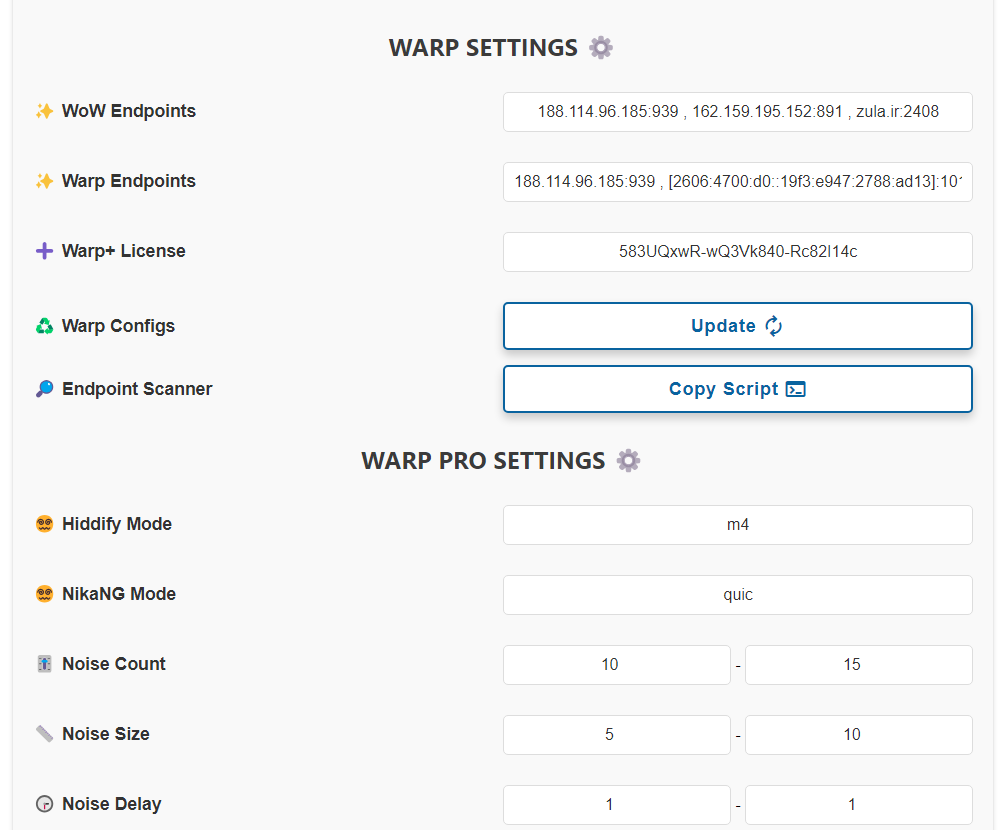
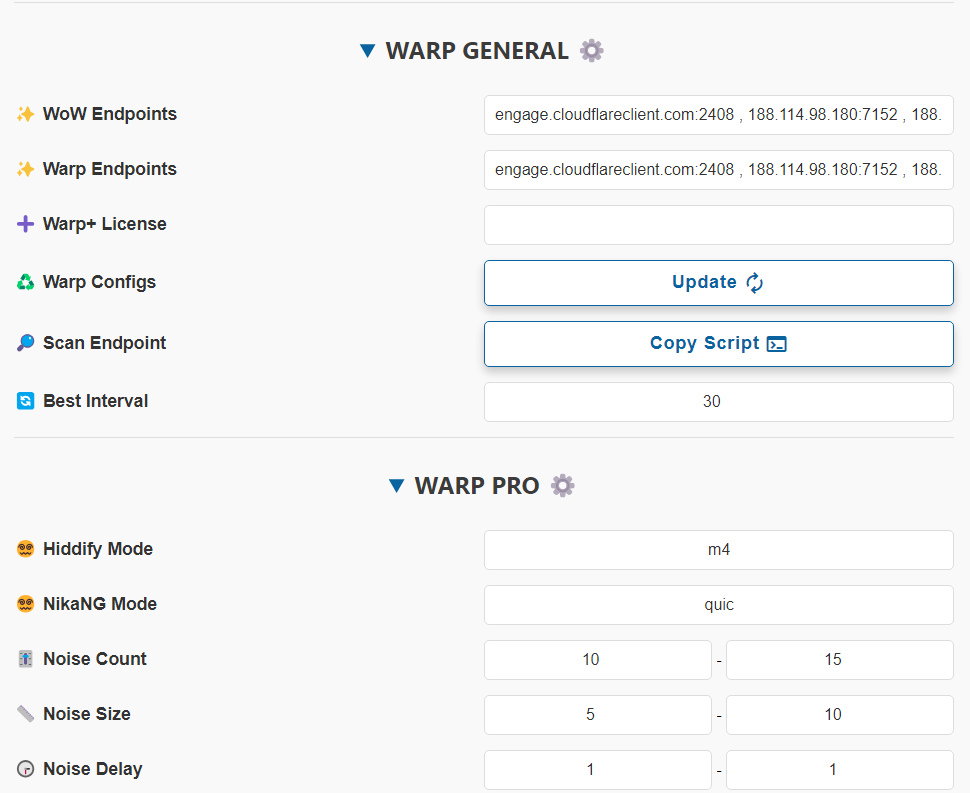
Updated docs.

diff --git a/_worker.js b/_worker.js
@@ -1207,7 +1207,7 @@ async function updateDataset (env, newSettings, resetSettings) {
 
     const chainProxy = newSettings?.get('outProxy');
     const proxySettings = {
-        remoteDNS: newSettings ? newSettings.get('remoteDNS') : currentSettings ? currentSettings.remoteDNS : 'https://dns.google/dns-query',
+        remoteDNS: newSettings ? newSettings.get('remoteDNS') : currentSettings ? currentSettings.remoteDNS : 'https://8.8.8.8/dns-query',
         localDNS: newSettings ? newSettings.get('localDNS') : currentSettings ? currentSettings.localDNS : '8.8.8.8',
         lengthMin: newSettings ? newSettings.get('fragmentLengthMin') : currentSettings ? currentSettings.lengthMin : '100',
         lengthMax: newSettings ? newSettings.get('fragmentLengthMax') : currentSettings ? currentSettings.lengthMax : '200',

diff --git a/docs/configuration_fa.md b/docs/configuration_fa.md
@@ -29,7 +29,7 @@
 - **مسیر کانفیگ Websocket Path:** هر کانفیگ یه مسیر متفاوت داره.
 - **آدرس کانفیگ:** از این 6 تا کانفیگ آدرس یکیشون www.speedtest.net هست که روی اکثر اپراتورا تمیزه، دومیش دامنهی خود ورکرتونه، و 3 تا 6 هم IP های دامنهی خودتون که اینام معمولا تمیزن. دوتا IPv4 و دوتا IPv6.
 
-چطور میشه تعدادشون رو اضافه کرد؟ توضیحات و تنظیمات بیشتر رو [اضافه کردن IP تمیز](#4-1-3--تنظیمات-ip-تمیز) و [اضافه کردن پورت](#4-1-7--انتخاب-port) , [انتخاب پروتکلها](#4-1-6--انتخاب-protocol) توضیح دادیم. 
+چطور میشه تعدادشون رو اضافه کرد؟ توضیحات و تنظیمات بیشتر رو [اضافه کردن IP تمیز](#4-1-4--تنظیمات-ip-تمیز) و [اضافه کردن پورت](#4-1-9--انتخاب-port) , [انتخاب پروتکلها](#4-1-8--انتخاب-protocol) توضیح دادیم. 
 > [!CAUTION]
 >برای استفاده از این کانفیگ ها Mux رو از تنظیمات هر اپلیکیشنی که استفاده میکنید خاموش کنید.
 
@@ -124,16 +124,16 @@
 ### 4-1- تنظیمات VLESS/TROJAN
 
 <p align="center">
-  <img src="assets/images/Fragment-Settings.jpg">
+  <img src="assets/images/VLESS_Trojan_settings.jpg">
 </p>
 
 این قسمت برای تنظیمات کانفیگای Fragment و سابهای Clash و Singbox هست و تاثیری روی کانفیگهای بخش نرمال v2ray و همچنین سابهای وارپ نداره.
 
 #### 4-1-1- سرورهای DNS
 
-بطور پیشفرض من Adguard DNS رو گذاشتم برای Remote DNS (برای حذف تبلیغات و spam و ...) و Google DNS رو گذاشتم برای Local DNS. یعنی تو کانفیگ پیشفرض اینه:
+بطور پیشفرض من Google DOH رو گذاشتم برای Remote DNS (برای حذف تبلیغات و spam و ...) و Google DNS رو گذاشتم برای Local DNS. یعنی تو کانفیگ پیشفرض اینه:
 
->`Remote DNS: https://94.140.14.14/dns-query`
+>`Remote DNS: https://8.8.8.8/dns-query`
 >
 >`Local DNS: 8.8.8.8`
 
@@ -154,6 +154,10 @@
 
 #### 4-1-2- تنظیمات Proxy IP
 
+<p align="center">
+  <img src="assets/images/Proxy_IP_settings.jpg">
+</p>
+
 برای تغییر Proxy IP از ورژن 2.3.5 به بعد میتونید از طریق خود پنل انجام بدید، به این ترتیب که اعمال میکنید و ساب رو آپدیت میکنید و تمام. اما توصیه میکنم از روش قدیمی داشبورد کلادفلر انجام بدید چون:
 
 > [!CAUTION]
@@ -169,116 +173,7 @@
 
 <br>
 
-#### 4-1-3- تنظیمات IP تمیز
-
-لینک های اشتراک نرمال (بدون فرگمنت) 6 تا کانفیگ بهتون میده. اینجا میتونید تعداد کانفیگها رو زیاد کنید.
-
-> [!TIP]
-> روی اپراتورهایی که از IPv6 پشتیبانی میکنن (مثل رایتل، ایرانسل و آسیاتک) اول IPv6 رو روی سیمکارت فعال کنید، بعد داخل تنظیمات V2RayNG گزینهی Prefer IPv6 رو فعال کنید و از بین این 6 تا کانفیگ هم از اون دو تا آخری یا اونی که آدرسش دامنه خودتون هست استفاده کنید. به طور کلی همیشه یه بار Real delay all configuration بزنید و با هر کدوم بهتر بود وصل بشید.
-
-
-
-
-اون 6 تا کانفیگ پیشفرضی که پنل میده همشون IP تمیز هستن، در ضمن اگر از کانفیگای Fragment استفاده کنید دیگه خیلی IP تمیز اهمیتی نداره، اما بعضی اپراتورا مثل مخابرات روی کانفیگای معمولی هنوز IP تمیز میخوان.
-
-خب حالا اگر خواستید علاوه بر اون 6 تا کانفیگ دیگه ای اضافه کنید که با IP تمیز خودتون باشه، مطابق عکس IP یا دامینهای تمیز خودتون رو با ویرگول وارد کنید و Apply بزنید، اسکنر آنلاین بچههای [IRCF](https://ircf.space) رو هم اضافه کردم:
-
-<p align="center">
-  <img src="assets/images/Clean_ip_domain.jpg">
-</p>
-
-الان اگر توی اپلیکیشن Update subscription بزنید میبینید که کانفیگای جدید اضافه شدن.
-
-در ضمن این کانفیگای جدید همزمان به قسمت فرگمنت هم اضافه میشن.
-
-<br>
-
-> [!CAUTION]
-> حتما بعد از اعمال ساب رو آپدیت کنید.
-<br>
-
-#### 4-1-4- تنظیمات Custom
-
-3 تا فیلد داریم به اسم Custom، در اصل مخفف Custom CDN. برای مواقعی استفاده میشه که شما میاید دامنهی Worker خودتون رو میبرید پشت یه CDN دیگه، مثلا Fastly یا Gcore یا هر CDN دیگهای. این 3 قسمت به ترتیب عبارتند از:
-
-1- بخش `Custom Addr` که در اصل حکم همون IP ها یا IP تمیزهای کلادفلر رو داره. ولی از هر CDN که اینجا استفاده میکنید باید IP های خودشو بذارید، نمیشه IP کلادفلرو بذارید برای Fastly یا Gcore. اینجام مثل IP تمیز که داشتیم میتونید دامنه، IP ورژن 4 یا 6 با ویرگول بذارید، حواستون باشه IPv6 باید بین [ ] باشه مثل:
-> speedtest.net , [2a04:4e42:200::731] , 151.101.66.219
-
-2- بخش `Custom Host` باید host که توی اون CDN تعریف کردید و اشاره میکنه به ورکر خودتون رو بذارید. مثلا توی Fastly میشه یه آدرس دامنه فیک تعریف کرد.
-
-3- بخش `Custom SNI` هم میتونید اون دامنهی فیک رو بذارید هم یه سایتی که روی همون CDN باشه. مثلا سایت speedtest.net (بدون wwww) روی CDN Fastly هست.
-
-حالا بعد از تنظیم کردن این بخش، کانفیگاش به سابهای Normal اضافه میشه، همهی سابهای Sing-box و Clash و v2ray و .... اسم این کانفیگها یه `C` داره توش که با بقیه قاطی نشه.
-
-> [!IMPORTANT]
-> در حال حاضر فقط کانفیگهای پورت 443 و 80 با این متد متصل میشن.
-
-<br>
-
-#### 4-1-5- زمان چک کردن Best Ping
-
-تو همهی سابهای Fragment یا Sing-box و Clash ما Best Ping رو داریم. بصورت پیشفرض هر 30 ثانیه میومد بهترین کانفیگ یا مقدار Fragment رو پیدا میکرد و بهش وصل میشد، اما ممکنه اگه سرعت نت خوب نباشه و شما در حال تماشای ویدئو یا بازی کردن باشید این 30 ثانیه دردسرساز بشه و تجربهی Lag داشته باشید. از اینجا میتونید زمان رو تنظیم کنید، حداقل میتونه 10 ثانیه باشه و حداکثر 90.
-<br>
-
-#### 4-1-6- انتخاب Protocol
-
-میتونید یکی یا هر دو پروتکل VLESS و Trojan رو فعال کنید.
-> [!CAUTION]
-> این دو پروتکل بر بستر کلادفلر اتصال UDP رو به خوبی پشتیبانی نمیکنن، بنابراین برای مثال تماس صوتی تلگرام کار نمیکنه. همچنین نمیتونید از DNS های UDP بعنوان remote DNS استفاده کنید، اگر در برنامهای دیدید remote DNS یه IP مثل 1.1.1.1 هست یا یه همچین چیزی udp://1.1.1.1 به مشکل بر میخورید. حتما از فرمتهای زیر استفاده کنید:
->
-> `https://IP/dns-query` مثل `https://8.8.8.8/dns-query` , `https://94.140.14.14/dns-query` ....
-> 
-> `https://doh/dns-query` مثل `https://dns.google/dns-query` , `https://cloudflare-dns.com/dns-query` ....
-> 
-> `tcp://IP` مثل `tcp://8.8.8.8` , `tcp://94.140.14.14` ....
-> 
-> `tls://IP` مثل `tls://dns.google` , `tls://cloudflare-dns.com` ....
-<br>
-
-#### 4-1-7- انتخاب Port
-
-از این بخش میتونید پورتهای مورد نیازتون رو انتخاب کنید. یه نعدادیشون بهتون کانفیگ TLS میدن که امنتره ولی وقتایی که روی TLS و Fragment اختلال ایجاد میشه این کانفیگا وصل میشن.
-> [!CAUTION]
-> دقت کنید برای استفاده از کانفیگهای non TLS باید از روش Workers دپلوی کرده باشید. در غیر این صورت Port های http در پنل نمایش داده نمیشن چون با روش Pages کار نمیکنن.
-
-> [!TIP]
-> کانفیگهای non TLS فقط به ساب نرمال اضافه میشن.
-
-<br>
-
-### 4-2- تنظیمات Fragment  
-
-#### 4-2-1- مقادیر فرگمنت
-بصورت پیشفرض:
-   
-
->`Length: 100-200`
->
->`Interval: 1-1`
->
->`Packets: tlshello`
-
-خب حالا میتونید پارامترا رو تنظیم کنید و Apply رو بزنید. اینجوری کانفیگای فرگمنت با تنظیمات شما ارائه میشن.
-
-
-> [!NOTE]
-> میتونید یکی از پارامترا رو عوض کنید یا همشو با هم. هر تغییری که بدید ذخیره میشه و دفعه بعد نیازی به تنظیم از اول نیست.
-
-> [!IMPORTANT]
-> مقادیر فرگمنت حداکثر دارن، Length بیشتر از 500 نمیتونه باشه، Interval بیشتر از 30.
-
-<br>
-
-> [!IMPORTANT]
-> مقدار 1-1 در بخش Packets فقط روی برنامههای MahsaNG و NikaNG و v2rayN-PRO کار میکنه.
-
-<br>
-
-#### 4-2-2- تنظیمات Chain Proxy
-
-<p align="center">
-  <img src="assets/images/Proxy_IP_settings.jpg">
-</p>
+#### 4-1-3- تنظیمات Chain Proxy
 
 قبلا گفتیم که میشه یه دونه Proxy IP گذاشت و IP رو برای سایتهای پشت کلادفلر ثابت کرد، اما کماکان وقتی سایتای معمولی رو باز میکنیم IP ما متعلق به ورکر هست که اینم هر چند وقت یک بار عوض میشه. برای اینکه کلا برای همهی سایتها IP رو فیکس کنیم این قسمت اضافه شده. میتونیم یه کانفیگ VLESS یا Socks یا Http رایگان که حتی فیلتر هم شده باشه (بشرطی که فقط تو ایران فیلتر شده باشه ولی کار کنه) این قسمت بذاریم و IP ما برای همیشه ثابت میشه به IP این کانفیگ.
    
@@ -333,7 +228,119 @@
 > 3- کانفیگ VLESS WS برای Chain کردن روی Sing-box مناسب نیست، باگ داره.
 <br>
 
-### 4-3- تنظیمات Routing
+#### 4-1-4- تنظیمات IP تمیز
+
+لینک های اشتراک نرمال (بدون فرگمنت) 6 تا کانفیگ بهتون میده. اینجا میتونید تعداد کانفیگها رو زیاد کنید.
+
+> [!TIP]
+> روی اپراتورهایی که از IPv6 پشتیبانی میکنن (مثل رایتل، ایرانسل و آسیاتک) اول IPv6 رو روی سیمکارت فعال کنید، بعد داخل تنظیمات V2RayNG گزینهی Prefer IPv6 رو فعال کنید و از بین این 6 تا کانفیگ هم از اون دو تا آخری یا اونی که آدرسش دامنه خودتون هست استفاده کنید. به طور کلی همیشه یه بار Real delay all configuration بزنید و با هر کدوم بهتر بود وصل بشید.
+
+
+
+
+اون 6 تا کانفیگ پیشفرضی که پنل میده همشون IP تمیز هستن، در ضمن اگر از کانفیگای Fragment استفاده کنید دیگه خیلی IP تمیز اهمیتی نداره، اما بعضی اپراتورا مثل مخابرات روی کانفیگای معمولی هنوز IP تمیز میخوان.
+
+خب حالا اگر خواستید علاوه بر اون 6 تا کانفیگ دیگه ای اضافه کنید که با IP تمیز خودتون باشه، مطابق عکس IP یا دامینهای تمیز خودتون رو با ویرگول وارد کنید و Apply بزنید، اسکنر آنلاین بچههای [IRCF](https://ircf.space) رو هم اضافه کردم:
+
+<p align="center">
+  <img src="assets/images/Clean_ip_domain.jpg">
+</p>
+
+الان اگر توی اپلیکیشن Update subscription بزنید میبینید که کانفیگای جدید اضافه شدن.
+
+در ضمن این کانفیگای جدید همزمان به قسمت فرگمنت هم اضافه میشن.
+
+<br>
+
+> [!CAUTION]
+> حتما بعد از اعمال ساب رو آپدیت کنید.
+<br>
+
+#### 4-1-5- فعال کردن IPv6
+
+پنل بطور پیشفرض کانفیگهای IPv6 هم میده، ولی اگر اپراتورتون پشتیبانی نمیکنه، برای خلوت شدن کانفیگا میتونید غیرفعالش کنید.
+
+<br>
+
+#### 4-1-6- تنظیمات Custom
+
+3 تا فیلد داریم به اسم Custom، در اصل مخفف Custom CDN. برای مواقعی استفاده میشه که شما میاید دامنهی Worker خودتون رو میبرید پشت یه CDN دیگه، مثلا Fastly یا Gcore یا هر CDN دیگهای. این 3 قسمت به ترتیب عبارتند از:
+
+1- بخش `Custom Addr` که در اصل حکم همون IP ها یا IP تمیزهای کلادفلر رو داره. ولی از هر CDN که اینجا استفاده میکنید باید IP های خودشو بذارید، نمیشه IP کلادفلرو بذارید برای Fastly یا Gcore. اینجام مثل IP تمیز که داشتیم میتونید دامنه، IP ورژن 4 یا 6 با ویرگول بذارید، حواستون باشه IPv6 باید بین [ ] باشه مثل:
+> speedtest.net , [2a04:4e42:200::731] , 151.101.66.219
+
+2- بخش `Custom Host` باید host که توی اون CDN تعریف کردید و اشاره میکنه به ورکر خودتون رو بذارید. مثلا توی Fastly میشه یه آدرس دامنه فیک تعریف کرد.
+
+3- بخش `Custom SNI` هم میتونید اون دامنهی فیک رو بذارید هم یه سایتی که روی همون CDN باشه. مثلا سایت speedtest.net (بدون wwww) روی CDN Fastly هست.
+
+حالا بعد از تنظیم کردن این بخش، کانفیگاش به سابهای Normal اضافه میشه، همهی سابهای Sing-box و Clash و v2ray و .... اسم این کانفیگها یه `C` داره توش که با بقیه قاطی نشه.
+
+> [!IMPORTANT]
+> در حال حاضر فقط کانفیگهای پورت 443 و 80 با این متد متصل میشن.
+
+<br>
+
+#### 4-1-7- زمان چک کردن Best Ping
+
+تو همهی سابهای Fragment یا Sing-box و Clash ما Best Ping رو داریم. بصورت پیشفرض هر 30 ثانیه میومد بهترین کانفیگ یا مقدار Fragment رو پیدا میکرد و بهش وصل میشد، اما ممکنه اگه سرعت نت خوب نباشه و شما در حال تماشای ویدئو یا بازی کردن باشید این 30 ثانیه دردسرساز بشه و تجربهی Lag داشته باشید. از اینجا میتونید زمان رو تنظیم کنید، حداقل میتونه 10 ثانیه باشه و حداکثر 90.
+<br>
+
+#### 4-1-8- انتخاب Protocol
+
+میتونید یکی یا هر دو پروتکل VLESS و Trojan رو فعال کنید.
+> [!CAUTION]
+> این دو پروتکل بر بستر کلادفلر اتصال UDP رو به خوبی پشتیبانی نمیکنن، بنابراین برای مثال تماس صوتی تلگرام کار نمیکنه. همچنین نمیتونید از DNS های UDP بعنوان remote DNS استفاده کنید، اگر در برنامهای دیدید remote DNS یه IP مثل 1.1.1.1 هست یا یه همچین چیزی udp://1.1.1.1 به مشکل بر میخورید. حتما از فرمتهای زیر استفاده کنید:
+>
+> `https://IP/dns-query` مثل `https://8.8.8.8/dns-query` , `https://94.140.14.14/dns-query` ....
+> 
+> `https://doh/dns-query` مثل `https://dns.google/dns-query` , `https://cloudflare-dns.com/dns-query` ....
+> 
+> `tcp://IP` مثل `tcp://8.8.8.8` , `tcp://94.140.14.14` ....
+> 
+> `tls://IP` مثل `tls://dns.google` , `tls://cloudflare-dns.com` ....
+<br>
+
+#### 4-1-9- انتخاب Port
+
+از این بخش میتونید پورتهای مورد نیازتون رو انتخاب کنید. یه نعدادیشون بهتون کانفیگ TLS میدن که امنتره ولی وقتایی که روی TLS و Fragment اختلال ایجاد میشه این کانفیگا وصل میشن.
+> [!CAUTION]
+> دقت کنید برای استفاده از کانفیگهای non TLS باید از روش Workers دپلوی کرده باشید. در غیر این صورت Port های http در پنل نمایش داده نمیشن چون با روش Pages کار نمیکنن.
+
+> [!TIP]
+> کانفیگهای non TLS فقط به ساب نرمال اضافه میشن.
+
+<br>
+
+### 4-2- تنظیمات Fragment  
+
+<p align="center">
+  <img src="assets/images/Fragment-Settings.jpg">
+</p>
+
+بصورت پیشفرض:
+   
+
+>`Length: 100-200`
+>
+>`Interval: 1-1`
+>
+>`Packets: tlshello`
+
+خب حالا میتونید پارامترا رو تنظیم کنید و Apply رو بزنید. اینجوری کانفیگای فرگمنت با تنظیمات شما ارائه میشن.
+
+
+> [!NOTE]
+> میتونید یکی از پارامترا رو عوض کنید یا همشو با هم. هر تغییری که بدید ذخیره میشه و دفعه بعد نیازی به تنظیم از اول نیست.
+
+> [!IMPORTANT]
+> مقادیر فرگمنت حداکثر دارن، Length بیشتر از 500 نمیتونه باشه، Interval بیشتر از 30.
+<br>
+
+### 4-3- تنظیمات Routing Rules
+
+<p align="center">
+  <img src="assets/images/Routing_rules.jpg">
+</p>
 
 این قسمت برای اینه که کانفیگای فرگمنت و وارپ بتونن دو تا کار رو انجام بدن:
 1. تبلیغات ایرانی و خارجی تا حدود 80 درصد مسدود کنن.
@@ -360,7 +367,7 @@
   <img src="assets/images/Warp-Settings.jpg">
 </p>
 
-#### 4-4-1 تنظیمات WARP SETTINGS
+#### 4-4-1 تنظیمات WARP GENERAL
 
 بین هر دو ساب Warp مشترکه و روی جفتشون اعمال میشه که دو تا قسمت اصلی داره:
 
@@ -392,7 +399,7 @@
 تو سابهای Warp و Warp PRO یا Sing-box و Clash ما Best Ping رو داریم. بصورت پیشفرض هر 30 ثانیه میومد بهترین کانفیگ یا Endpoint رو پیدا میکرد و بهش وصل میشد، اما ممکنه اگه سرعت نت خوب نباشه و شما در حال تماشای ویدئو یا بازی کردن باشید این 30 ثانیه دردسرساز بشه و تجربهی Lag داشته باشید. از اینجا میتونید زمان رو تنظیم کنید، حداقل میتونه 10 ثانیه باشه و حداکثر 90.
 <br><br>
 
-#### 4-4-2 تنظیمات WARP PRO SETTINGS
+#### 4-4-2 تنظیمات WARP PRO
 
 فقط برای ساب WARP PRO هست که بالاتر توضیح دادم چیه. چند قسمت داره:
 
